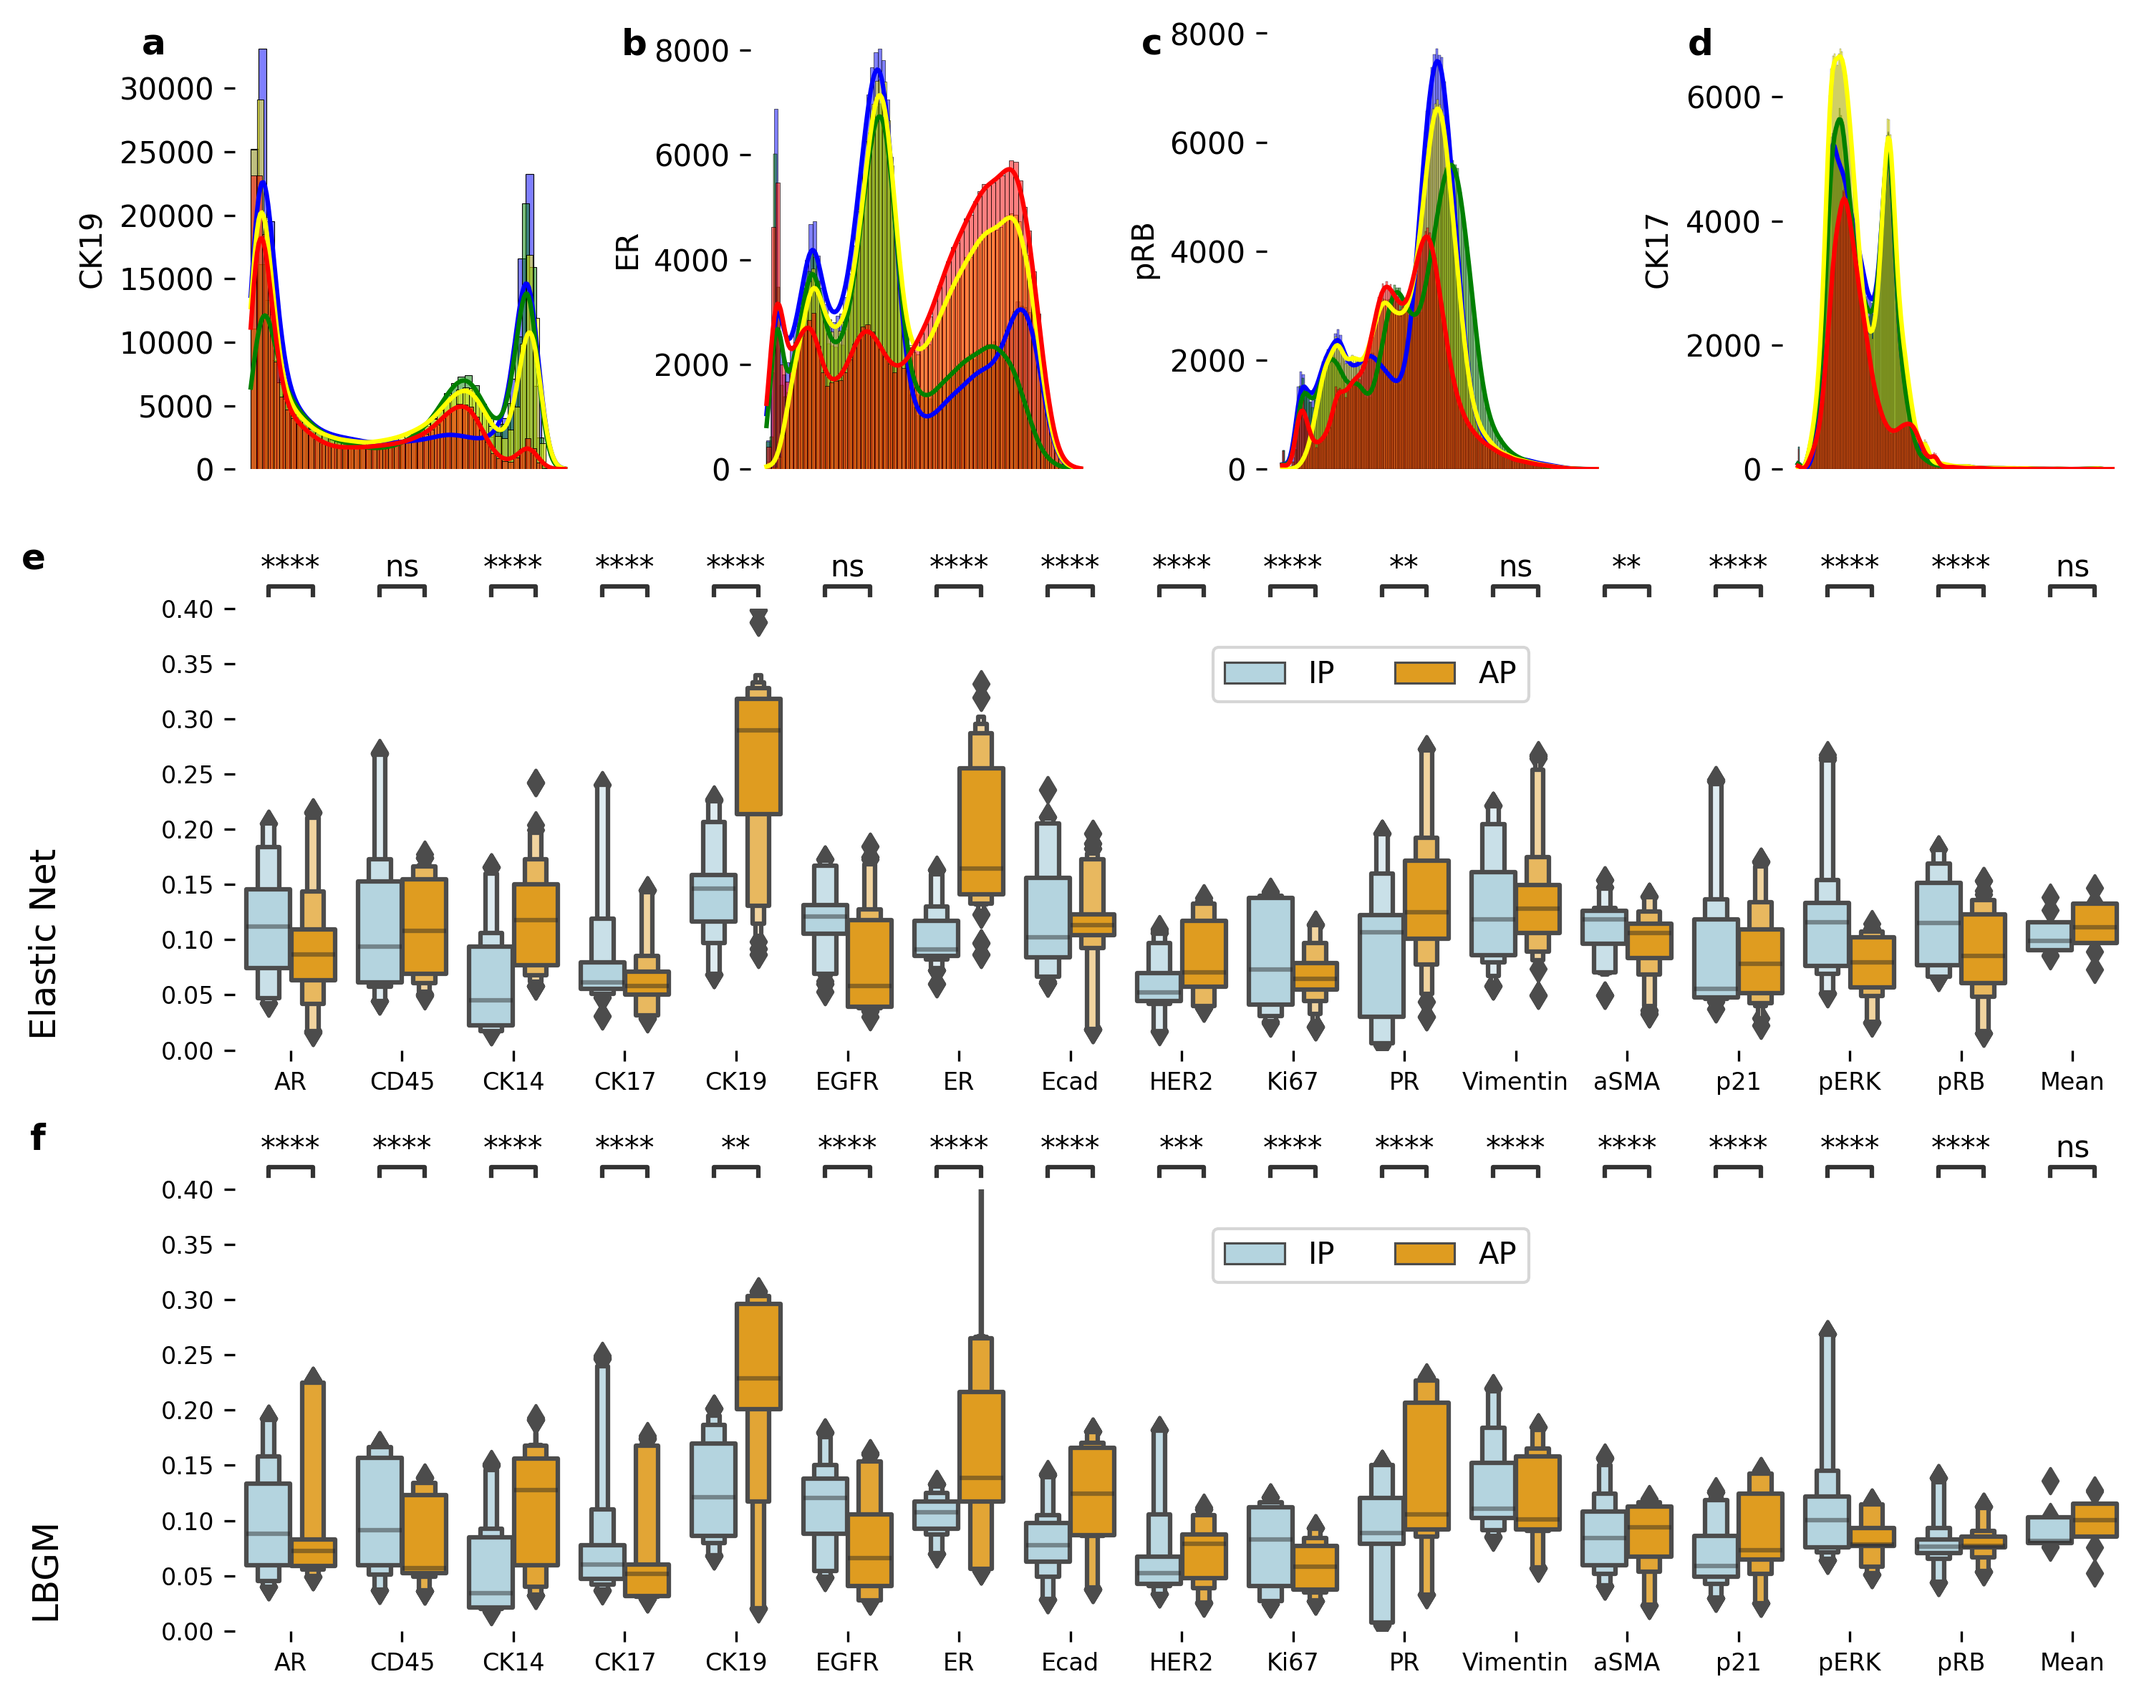
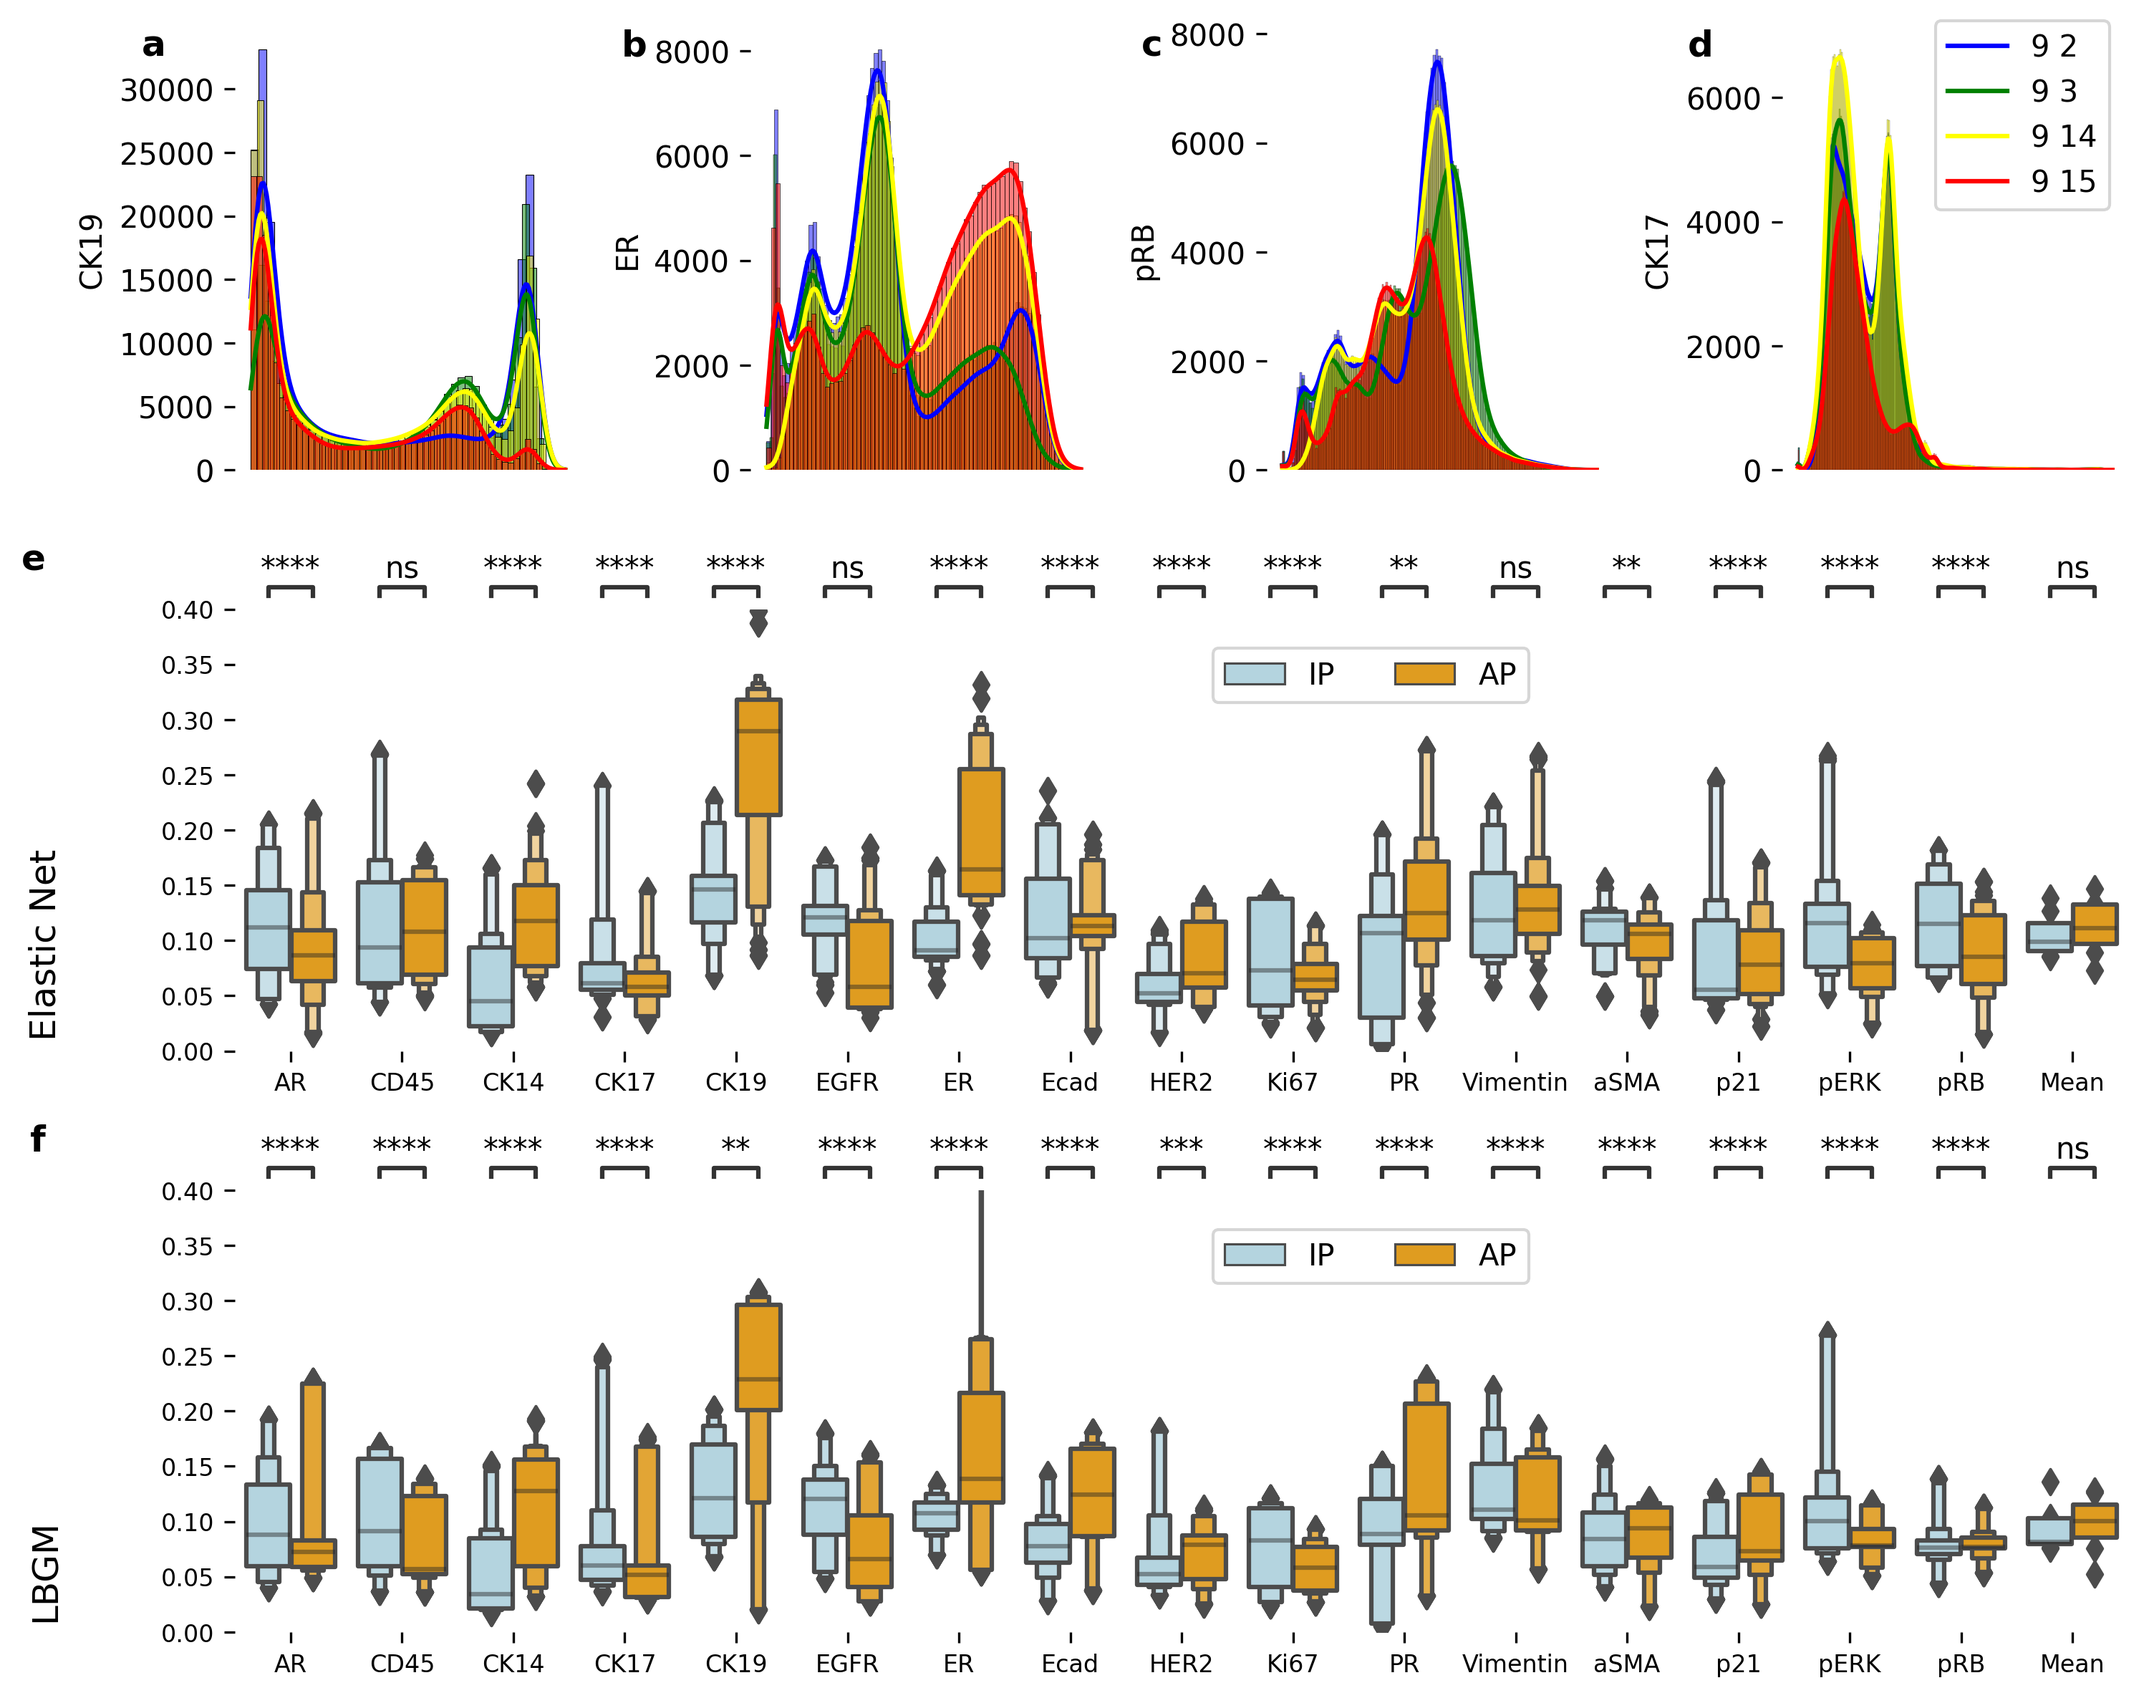
Core: Update fig2

diff --git a/src/figures/fig2.py b/src/figures/fig2.py
@@ -250,9 +250,9 @@ if __name__ == '__main__':
     sns.histplot(bx_data["9_14"]["pRB"], color="yellow", ax=ax13, kde=True, stat="count")
     sns.histplot(bx_data["9_15"]["pRB"], color="red", ax=ax13, kde=True, stat="count")
     ax13.set_xlabel("pRB")
-
-    # rotate x ticks of ax14
+    # rotate x ticks of ax13
     ax13.set_xticklabels(ax13.get_xticklabels(), rotation=90)
+
 
     ax14 = fig.add_subplot(gspec[:2, 3:4])
     # remove box from ax1
@@ -268,6 +268,10 @@ if __name__ == '__main__':
     sns.histplot(bx_data["9_14"]["CK17"], color="yellow", ax=ax14, kde=True, stat="count")
     sns.histplot(bx_data["9_15"]["CK17"], color="red", ax=ax14, kde=True, stat="count")
     ax14.set_xlabel("Ck17")
+    plt.legend(labels=["9 2", "9 3", "9 14", "9 15"], loc='upper left', ncol=1, bbox_to_anchor=(0.4, 1.05))
+    # create legend with custom labels
+
+
     # rotate x ticks of ax13
     ax14.set_xticklabels(ax13.get_xticklabels(), rotation=90)
     # Set the x-axis to log scale
